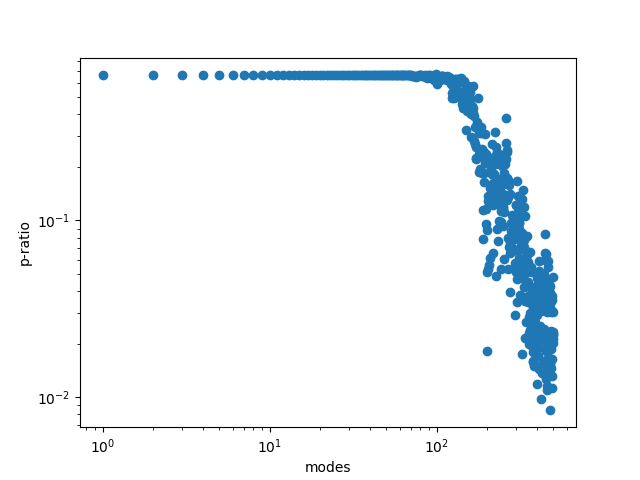
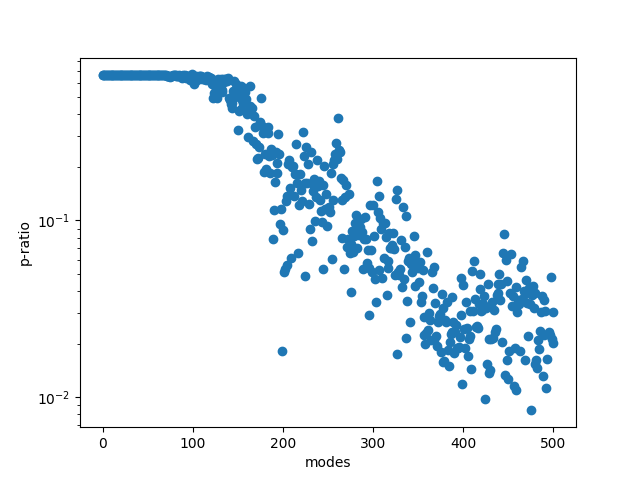
update

diff --git a/1d/main_v2.py b/1d/main_v2.py
@@ -153,7 +153,6 @@ print("> pratio vs eigenvalues to {}".format(epfile))
 
 plt.clf()
 plt.yscale('log')
-plt.xscale('log')
 plt.scatter(modes,pratio)
 plt.xlabel('modes')
 plt.ylabel('p-ratio')
@@ -162,7 +161,6 @@ print("> pratio vs modes to {}".format(mpfile_log))
 
 plt.clf()
 plt.yscale('log')
-plt.xscale('log')
 plt.scatter(eigenvalues2,pratio)
 plt.xlabel('eigenvalues')
 plt.ylabel('p-ratio')
